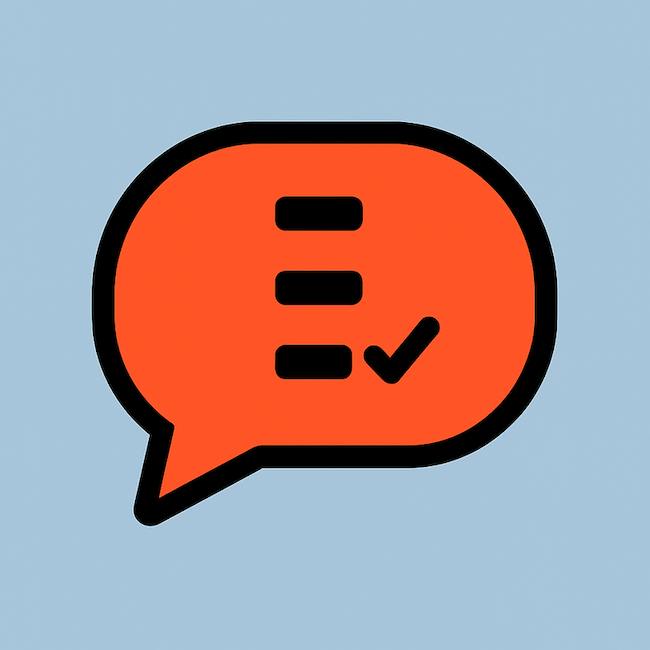
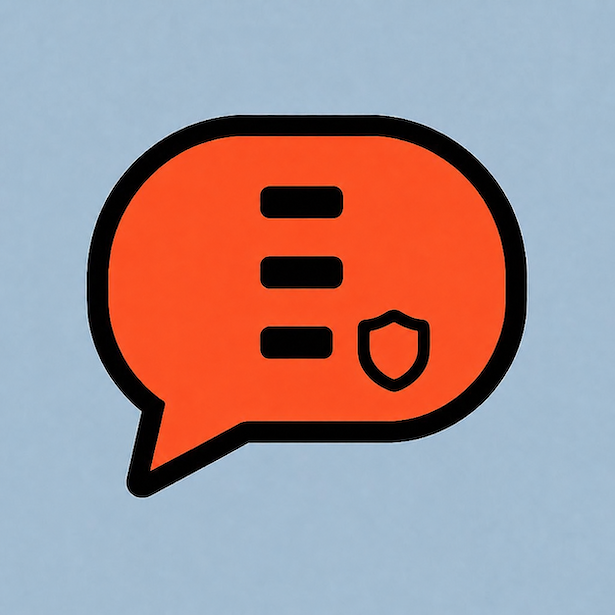
0.1.10

diff --git a/README.md b/README.md
@@ -13,7 +13,7 @@ This app allows moderators to respond with one of their saved Removal Reasons wi
 
 ## Changelog
 
-### [0.1.9] (2026-05-18)
+### [0.1.10] (2026-05-18)
 
 #### Features
 